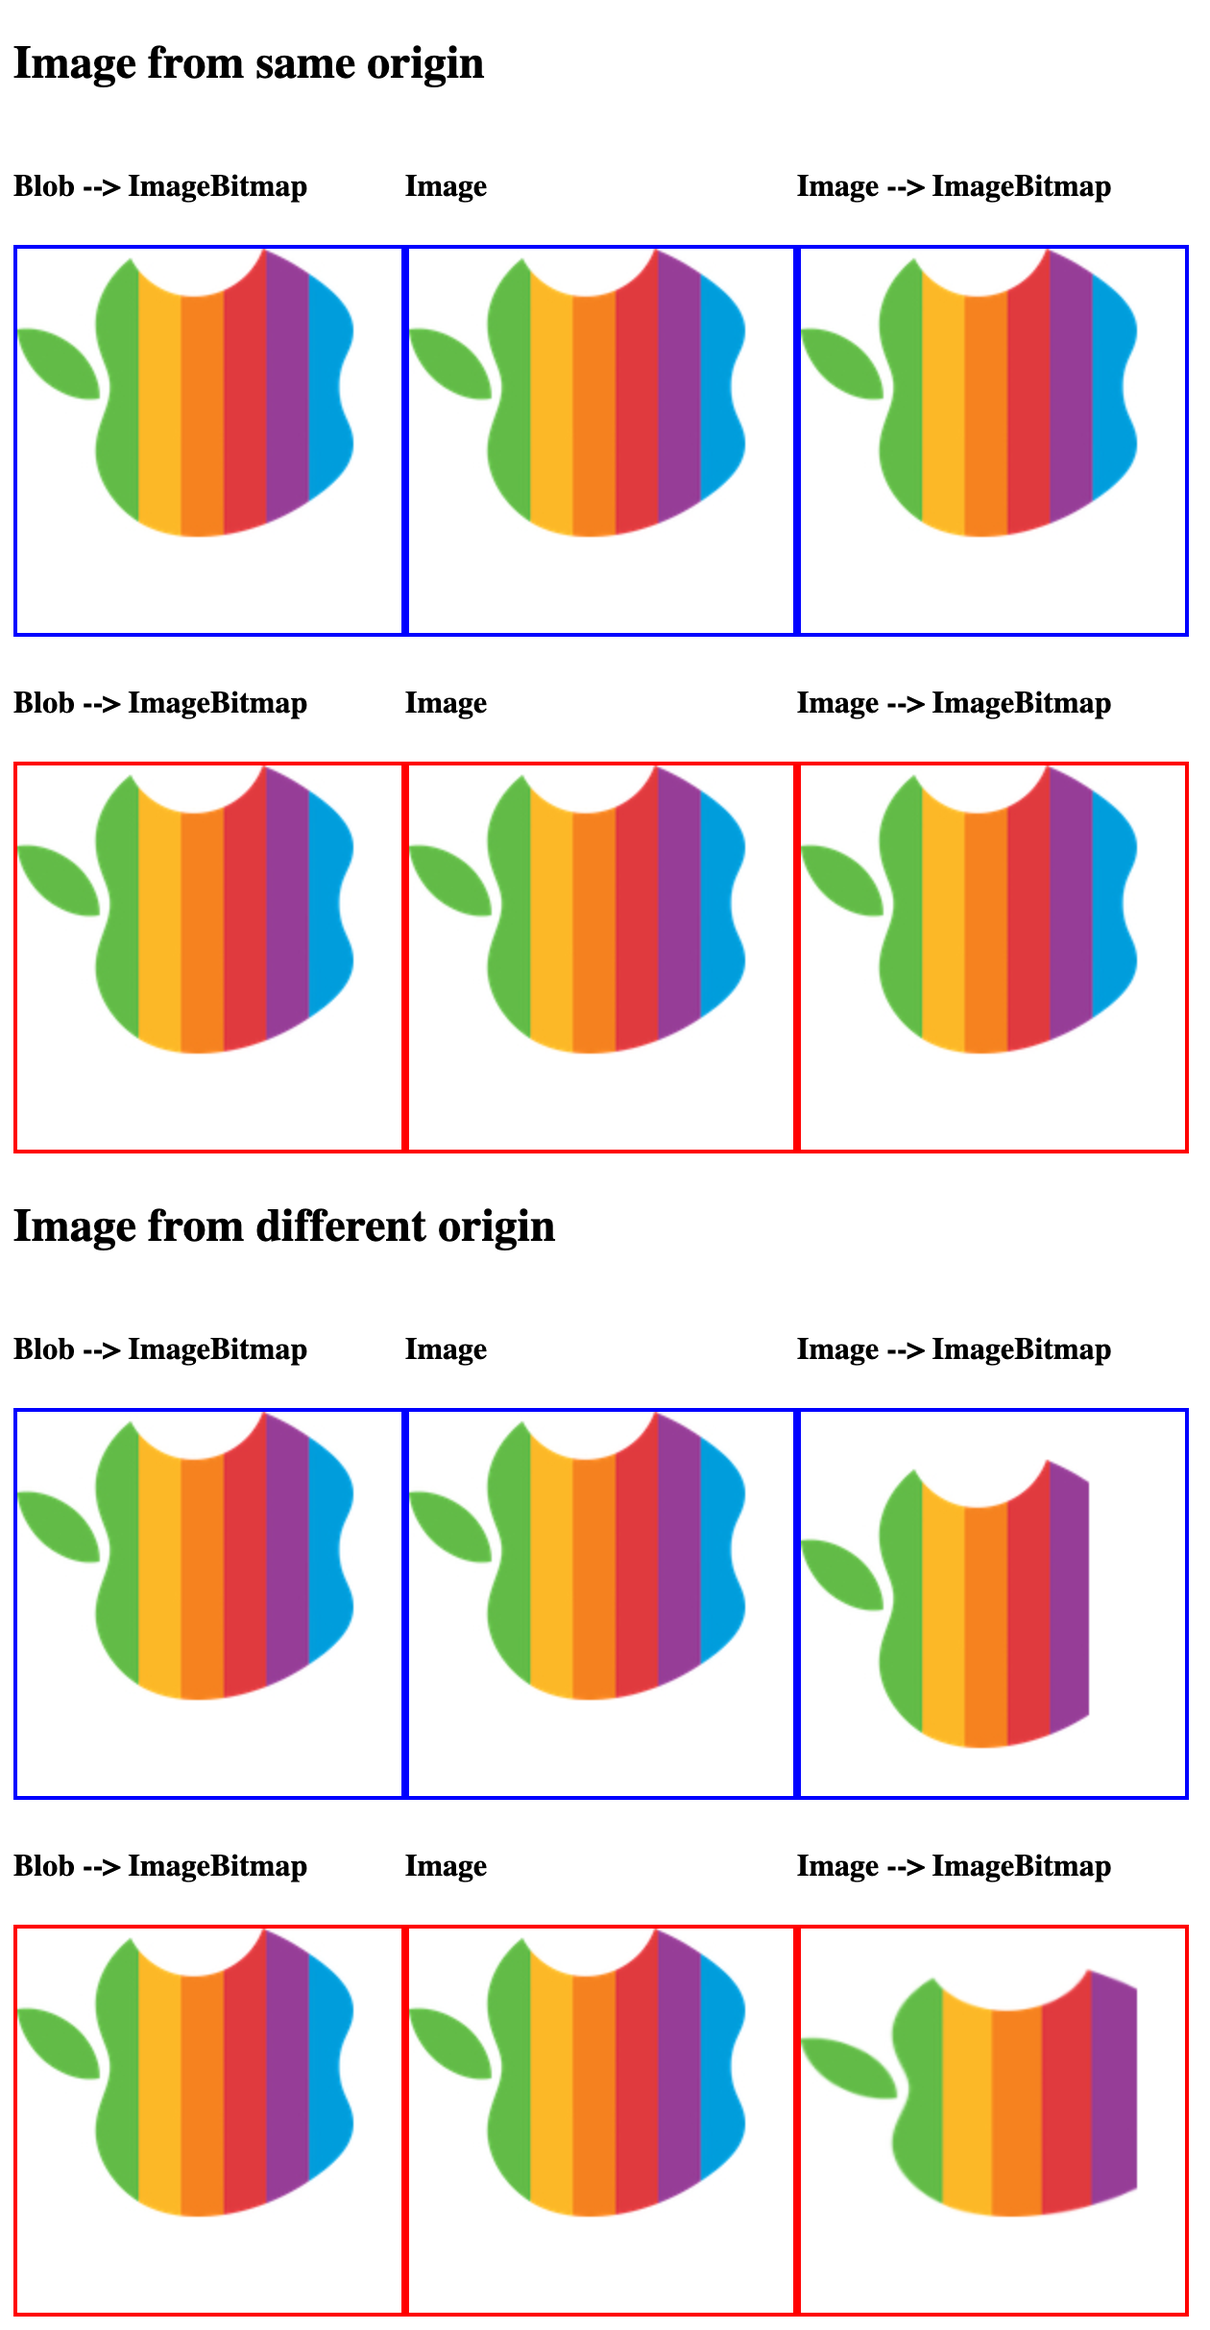
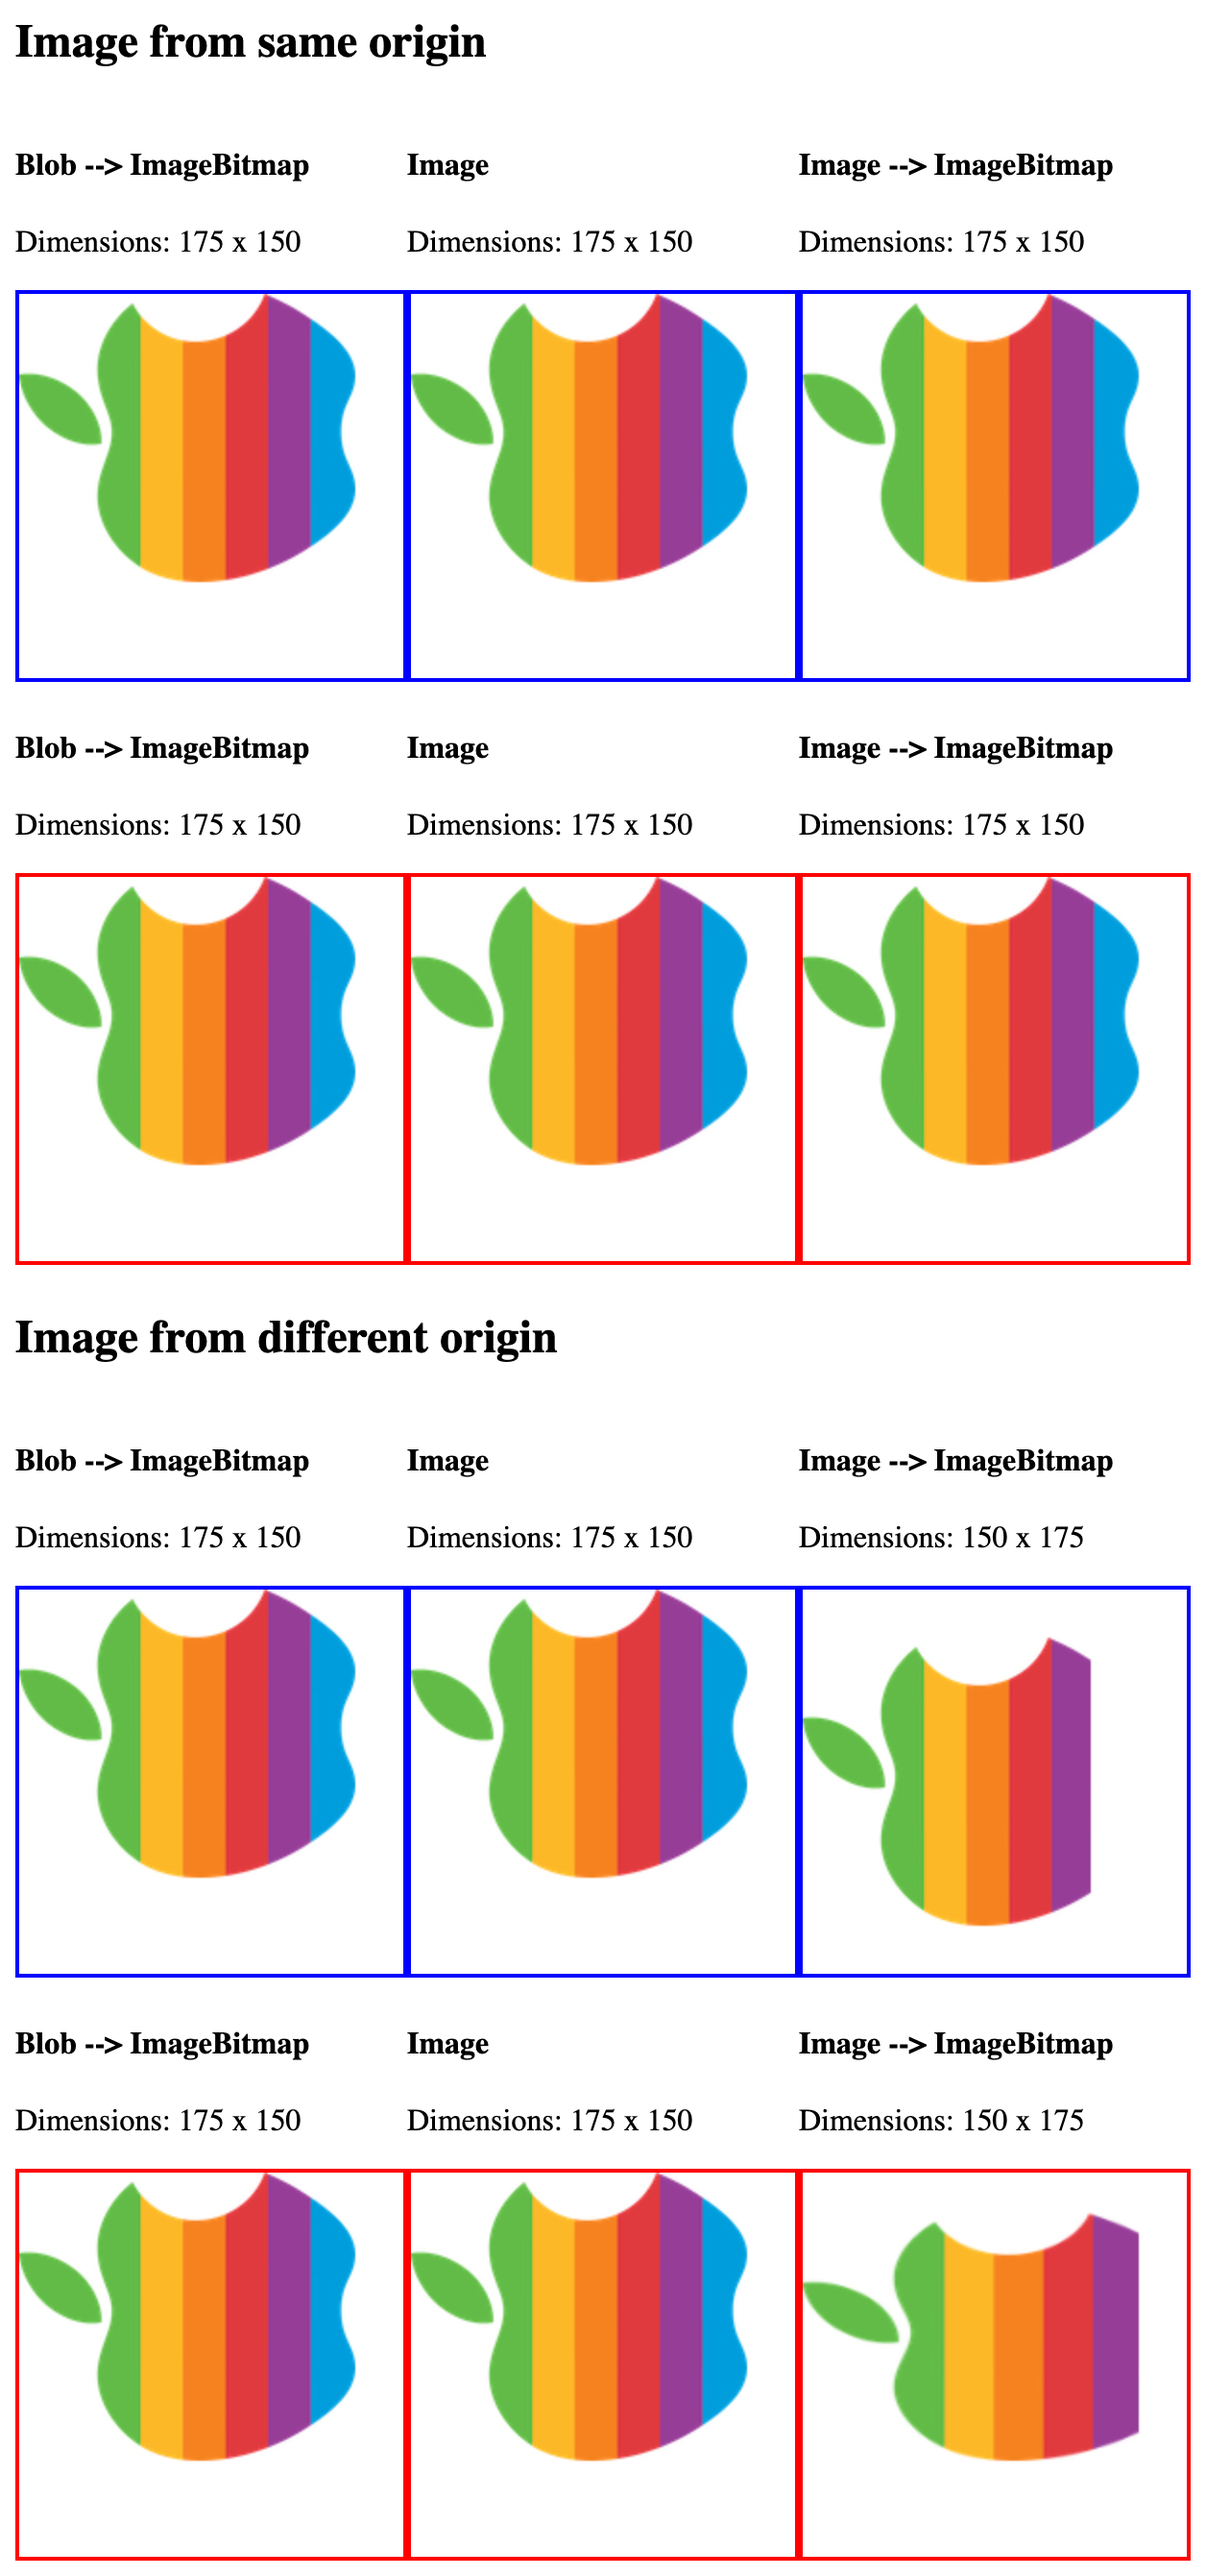
Add dimensions

Changed region(s): [[0.0, 0.0, 0.9936, 1.0]]

diff --git a/index.js b/index.js
@@ -70,8 +70,11 @@ async function draw(image) {
     const container = document.createElement('div');
     const title = document.createElement('h4');
     title.textContent = labels[i];
+    const dimensions = document.createElement('p');
+    dimensions.textContent = `Dimensions: ${x.width} x ${x.height}`;
 
     container.appendChild(title);
+    container.appendChild(dimensions);
     container.appendChild(canvas);
     container1.appendChild(container);
   });
@@ -89,8 +92,11 @@ async function draw(image) {
     const container = document.createElement('div');
     const title = document.createElement('h4');
     title.textContent = labels[i];
+    const dimensions = document.createElement('p');
+    dimensions.textContent = `Dimensions: ${x.width} x ${x.height}`;
 
     container.appendChild(title);
+    container.appendChild(dimensions);
     container.appendChild(canvas);
     container2.appendChild(container);
   });
